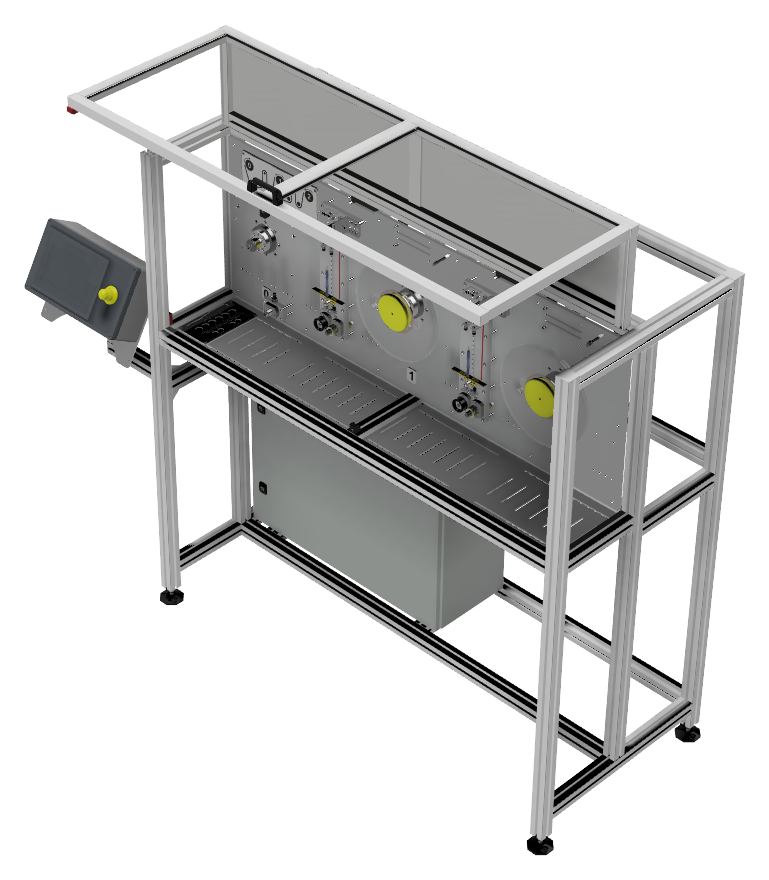
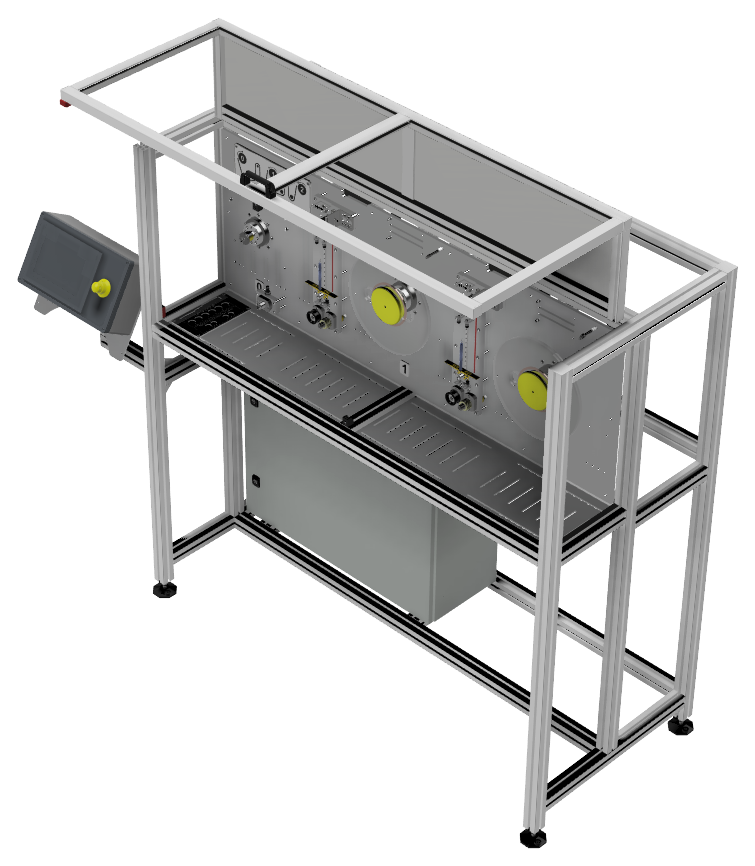
Lot C amorcé : détourage automatique des rendus, et une seule fiche machine
Un rendu déposé tel quel depuis l'administration est détouré avant chaque
construction : marges transparentes retirées, marge régulière de 2 % laissée
autour de la machine, fichier réécrit seulement si ses marges changent. Brief
des six rendus dans docs/3D.md. À la demande du dirigeant, les six fiches sans
rendu sont supprimées : seule la bobineuse ESRF reste en ligne, les autres
reviendront avec leurs images. Le renvoi « Machine suivante » ne s'affiche
qu'à partir de deux machines.

Changed region(s): [[0.0305, 0.0, 0.9748, 0.9977], [0.0609, 0.2182, 0.0914, 0.2494]]

diff --git a/docs/3D.md b/docs/3D.md
@@ -258,6 +258,38 @@ rayons**. D'où l'ordre : on soigne les apparences et l'affichage, puis on filme
 Le fichier publié par Fusion est réencodé ici en MP4 sous 3 Mo, et l'image fixe en JPEG ou
 WebP. Les deux se déposent dans le CMS sur la fiche machine.
 
+## 6. Lot C : les six machines en rendu (engagé le 2026-09-07)
+
+Le circuit est complet et ne demande aucune intervention technique : le rendu brut se
+dépose dans l'administration, le site fait le reste.
+
+### Ce qu'il faut produire, par machine
+
+| Point | Attendu |
+| --- | --- |
+| Format | PNG, fond transparent |
+| Cadrage | serré : la machine remplit la largeur de l'image |
+| Définition | 2 000 pixels sur la largeur de la machine, ou plus |
+| Angle | le même que la bobineuse ESRF : trois quarts avant gauche, vue légèrement plongeante |
+| Contenu | aucune cote, aucun usinage, aucun marquage client |
+
+Le même angle pour les six, c'est ce qui fera une collection plutôt qu'une suite d'images.
+Une ombre au sol est acceptable si elle fait partie du PNG transparent.
+
+### Ce que fait le site
+
+1. **Détourage** (`construction/detourer.mjs`, lancé avant chaque construction) : les marges
+   transparentes sont retirées, une marge de 2 % est laissée autour de la machine. Le
+   script ne réécrit un fichier que si ses marges changent.
+2. **Déclinaison** (lot A) : largeurs affichées, AVIF puis WebP, PNG en repli.
+3. **Affichage** : fiche, page Machines, cartes de l'accueil, sans jamais rogner.
+
+### Le geste dans l'administration
+
+Machines → la fiche → « Photo ou rendu » → déposer le fichier tel qu'il sort de Fusion →
+remplir « Description de l'image » → enregistrer. Puis, sur la page Accueil, bloc « Cartes de
+machines », ajouter la machine à la liste pour qu'elle entre dans le carrousel.
+
 ## 5. Décision en attente
 
 **Une machine de bout en bout d'abord**, test sur téléphone réel, puis go / no-go avant les

diff --git a/CLAUDE.md b/CLAUDE.md
@@ -266,6 +266,19 @@ le carrousel et le flux, quiz annoncé aux lecteurs d'écran) ; F finitions (pag
 suppression des maquettes, polices, images de partage, `BASCULE.md`, README).
 
 - **Lot A livré le 2026-09-07.**
+- **Lot C engagé le 2026-09-07** : détourage automatique des PNG transparents de
+  `src/images/machines` avant chaque construction (`construction/detourer.mjs`, scripts
+  `predev` et `prebuild`, bibliothèque sharp déjà présente). Le dépôt d'un rendu brut
+  depuis le CMS suffit. Brief des rendus dans `docs/3D.md` § 6. Reste : les six rendus, à
+  produire par le dirigeant ; les machines à ajouter au carrousel de l'accueil ; les
+  volumes filaires à retirer des pages publiées quand toutes les images existent.
+  - **Décision du dirigeant (2026-09-07) : une seule fiche machine en ligne**, la bobineuse
+    ESRF. Les six autres fiches (banc de test hydraulique, bobineuse générique, cabine
+    robotisée, dépacking, machine à plisser, sableuse) sont supprimées du contenu, textes
+    compris : elles reviendront avec leurs rendus, à recréer dans le CMS. Le renvoi
+    « Machine suivante » des fiches ne s'affiche qu'à partir de deux machines. Les formes
+    d'attente filaires (`src/scripts/filaire.ts`) et l'option « Volume d'attente » du CMS
+    restent, comme secours.
 - **Lot B livré le 2026-09-07** : intégration `src/integrations/chantier.mjs`, déclarée
   après le plan du site dans `astro.config.mjs`. Elle relit chaque page produite ; un
   marqueur visible (regex `MARQUEUR`, insensible à la casse et aux accents) vaut balise

diff --git a/content/pages/machines.md b/content/pages/machines.md
@@ -1,7 +1,7 @@
 ---
 libelle: Machines
 titre: Machines
-description: 'Réalisations d''Automachine : bobineuse, banc de test hydraulique, machine à plisser, cabine robotisée, ligne de dépacking, sableuse.'
+description: 'Réalisations d''Automachine, concepteur et fabricant de machines spéciales à Tours.'
 blocs:
   - type: hero
     surtitre: Nos réalisations
